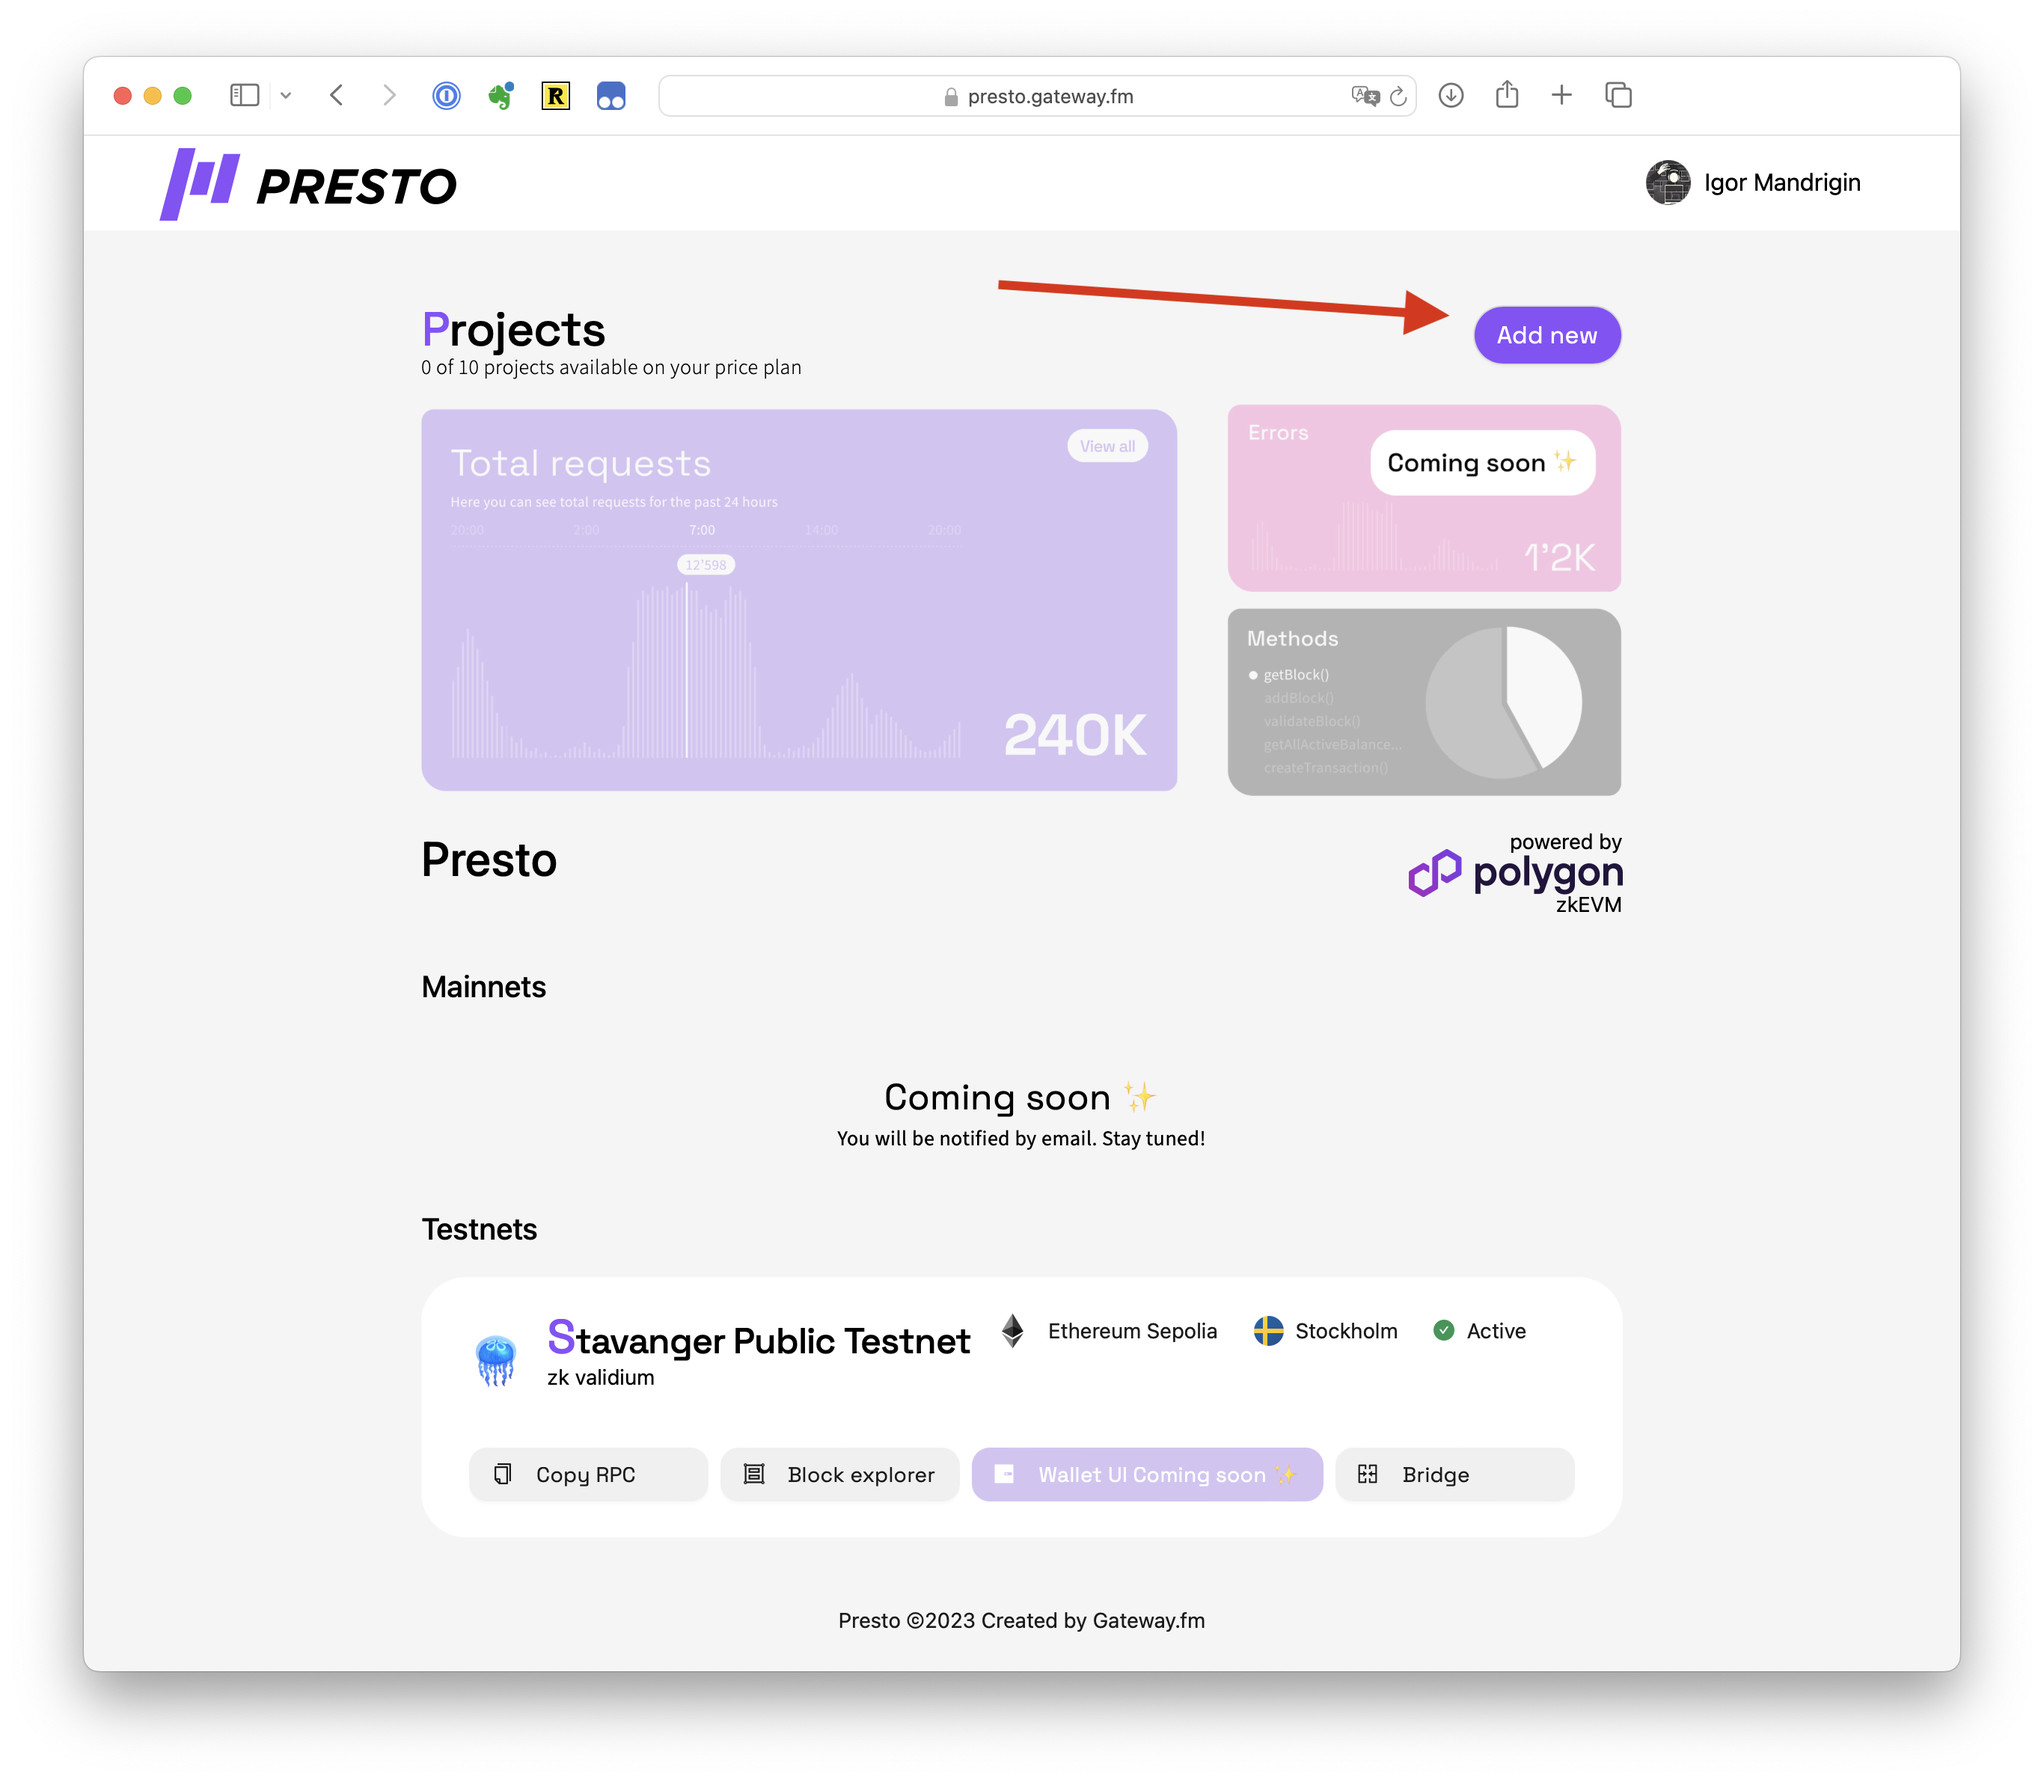
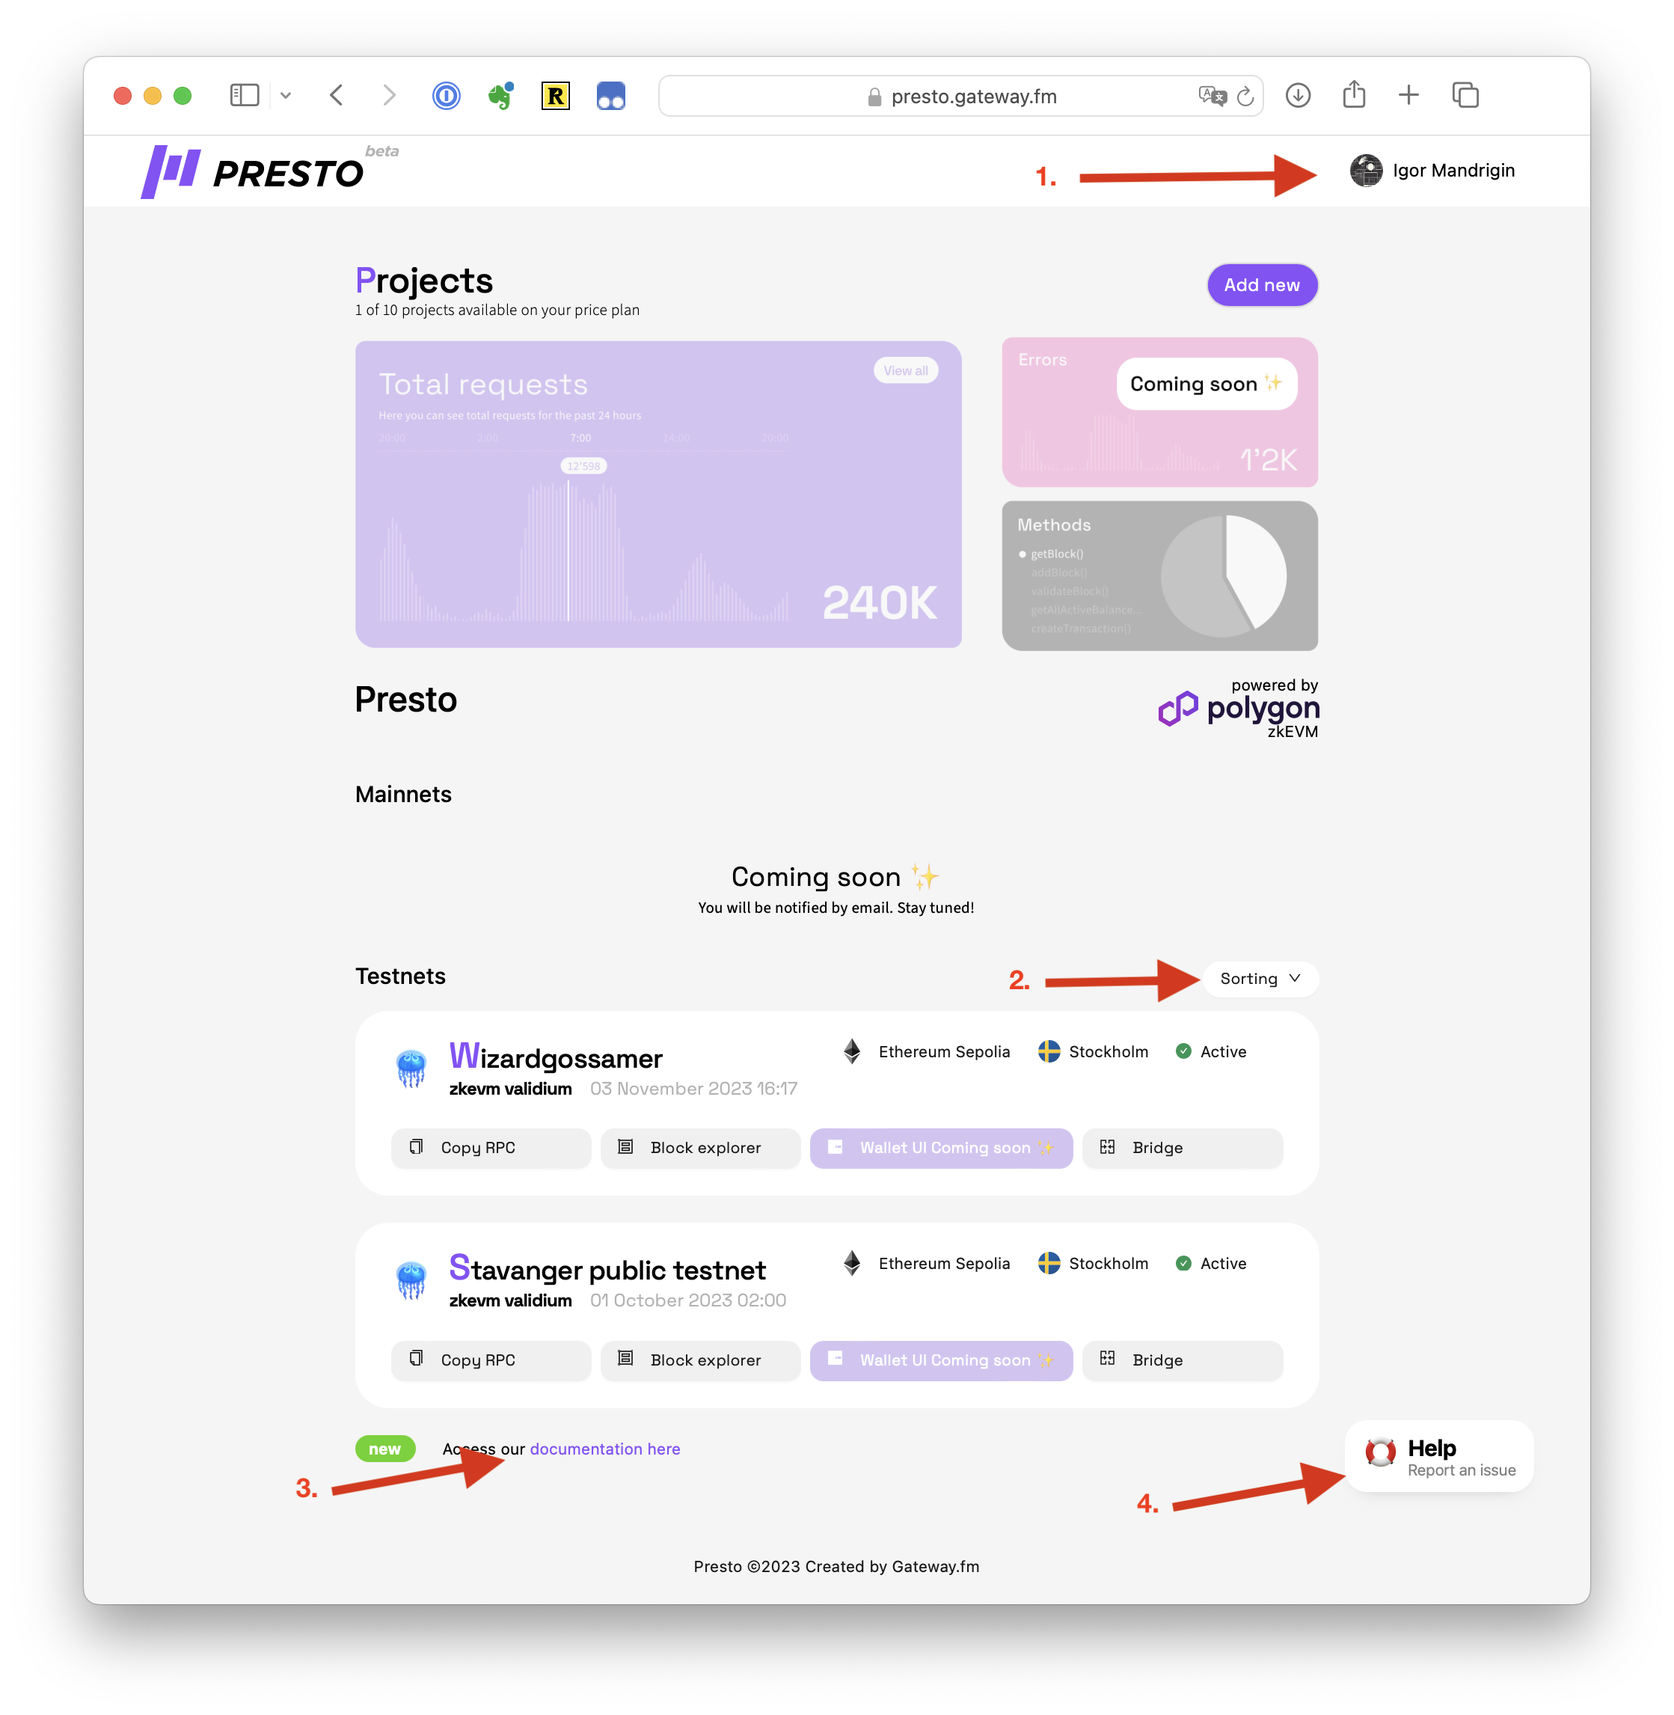
GITBOOK-21: No subject

diff --git a/overview/presto-ui-dashboards/presto-l2-dashboard.md b/overview/presto-ui-dashboards/presto-l2-dashboard.md
@@ -10,41 +10,64 @@ Top to bottom it consist of:
 * “gear” menu with options to delete the L2 ([How To Delete A Rollup](https://www.notion.so/How-To-Delete-A-Rollup-b45d5f5cbb9746f39d6c8d99f32b8fba?pvs=21))
 * navigation strip
 * rootchain, location, status and zkEVM logo
-* sections
+* sections\
+
+
+<figure><img src="../../.gitbook/assets/Untitled (1).png" alt=""><figcaption></figcaption></figure>
 
 ### Getting Started
 
-Here you can add your chain to a wallet and also download the config for Hardhat to deploy smart contracts.
+Here you can add your chain to a wallet and also download the config for Hardhat to deploy smart contracts.\
+
+
+<figure><img src="../../.gitbook/assets/Untitled 1 (1).png" alt=""><figcaption><p>Getting Started</p></figcaption></figure>
 
 ### RPC
 
 Here is all the necessary info about the RPC, is it public or private, chain id and the RPC url.
 
+<figure><img src="../../.gitbook/assets/Untitled 2.png" alt=""><figcaption></figcaption></figure>
+
 ### Bridge
 
-here is the link to the UI (and visibility settings) for the LX-to-LY bridge fro Polygon CDK
+here is the link to the UI (and visibility settings) for the LX-to-LY bridge fro Polygon CDK\
+
+
+<figure><img src="../../.gitbook/assets/Untitled 3.png" alt=""><figcaption></figcaption></figure>
 
 ### Block Explorer
 
 Each rollup comes with the blockscout instance. [How to use a Block Explorer](https://www.notion.so/How-to-use-a-Block-Explorer-b822b1fab0f143cb88898bb1818d1920?pvs=21)
 
+<figure><img src="../../.gitbook/assets/Untitled 4.png" alt=""><figcaption><p>Block explorer</p></figcaption></figure>
+
 ### Faucet
 
 Each testnet comes with a faucet where you can get test gas tokens for smart contract deployments, etc.
 
+<figure><img src="../../.gitbook/assets/Untitled 5.png" alt=""><figcaption><p>Faucet</p></figcaption></figure>
+
 ### Diagnostics
 
-This section contains information about smart contracts on L1
+This section contains information about smart contracts on L1\
+
+
+<figure><img src="../../.gitbook/assets/Untitled 6.png" alt=""><figcaption><p>Diagnostics</p></figcaption></figure>
 
 ### Data center info
 
 basic info about the datacenter
 
+<figure><img src="../../.gitbook/assets/Untitled 7.png" alt=""><figcaption><p>Data center info</p></figcaption></figure>
+
 ### Tokenomics
 
 Shows the gas marketplace setting. If the rollup is gasless, it will look like that.
 
-By the default non-gasless rollup it will look like that.
+By the default non-gasless rollup it will look like that.\
+
+
+<figure><img src="../../.gitbook/assets/Untitled 9.png" alt=""><figcaption><p>Tokenomics</p></figcaption></figure>
 
 ## Enterprise customers
 

diff --git a/overview/presto-ui-dashboards/presto-list-of-projects.md b/overview/presto-ui-dashboards/presto-list-of-projects.md
@@ -1,0 +1,27 @@
+# Presto List Of Projects
+
+## Presto List Of Projects
+
+## Full UI
+
+<figure><img src="../../.gitbook/assets/Untitled.png" alt=""><figcaption></figcaption></figure>
+
+1. Username and logout menu
+2. Sorting menu
+3. Documentation
+4. Help & Support menu — contact us, Discord and docs.
+
+## Entry
+
+Click on this entry opens the L2 dashboard (see [Presto L2 Dashboard](https://www.notion.so/Presto-L2-Dashboard-f3613e23ecc54bee854104ae6aee9f4d?pvs=21))\
+\
+![](<../../.gitbook/assets/Untitled 1.png>)
+
+1. Name of the L2
+2. Date/time of creation
+3. Root chain (L1)
+4. Region where the nodes are located
+5. Status (active/pending/provisioning/issues)
+6. Directly copy RPC URLs to clipboard ([What Is RPC](https://www.notion.so/What-Is-RPC-094669c329814c6a92d7acbae84d5d3c?pvs=21))
+7. Jump to the block explorer ([How to use a Block Explorer](https://www.notion.so/How-to-use-a-Block-Explorer-b822b1fab0f143cb88898bb1818d1920?pvs=21))
+8. Jump to the bridge ([How to Use a Bridge](https://www.notion.so/How-to-Use-a-Bridge-ef40695e1c8a4c58a9bdbb03971617a4?pvs=21))

diff --git a/overview/main-functionality/README.md b/overview/main-functionality/README.md
@@ -4,10 +4,10 @@
 [how-to-create-a-rollup.md](how-to-create-a-rollup.md)
 {% endcontent-ref %}
 
-<figure><img src="../../.gitbook/assets/Untitled.png" alt=""><figcaption></figcaption></figure>
+<figure><img src="../../.gitbook/assets/Untitled (2).png" alt=""><figcaption></figcaption></figure>
 
 {% content-ref url="how-to-create-and-use-a-gasless-rollup.md" %}
 [how-to-create-and-use-a-gasless-rollup.md](how-to-create-and-use-a-gasless-rollup.md)
 {% endcontent-ref %}
 
-<figure><img src="../../.gitbook/assets/Untitled.png" alt=""><figcaption></figcaption></figure>
+<figure><img src="../../.gitbook/assets/Untitled (2).png" alt=""><figcaption></figcaption></figure>

diff --git a/SUMMARY.md b/SUMMARY.md
@@ -28,6 +28,7 @@
   * [How to use Presto with web3.py](overview/features-for-developers/how-to-use-presto-with-web3.py.md)
 * [📊 Presto UI/Dashboards](overview/presto-ui-dashboards/README.md)
   * [Presto L2 Dashboard](overview/presto-ui-dashboards/presto-l2-dashboard.md)
+  * [Presto List Of Projects](overview/presto-ui-dashboards/presto-list-of-projects.md)
 
 ## Fundamentals
 
